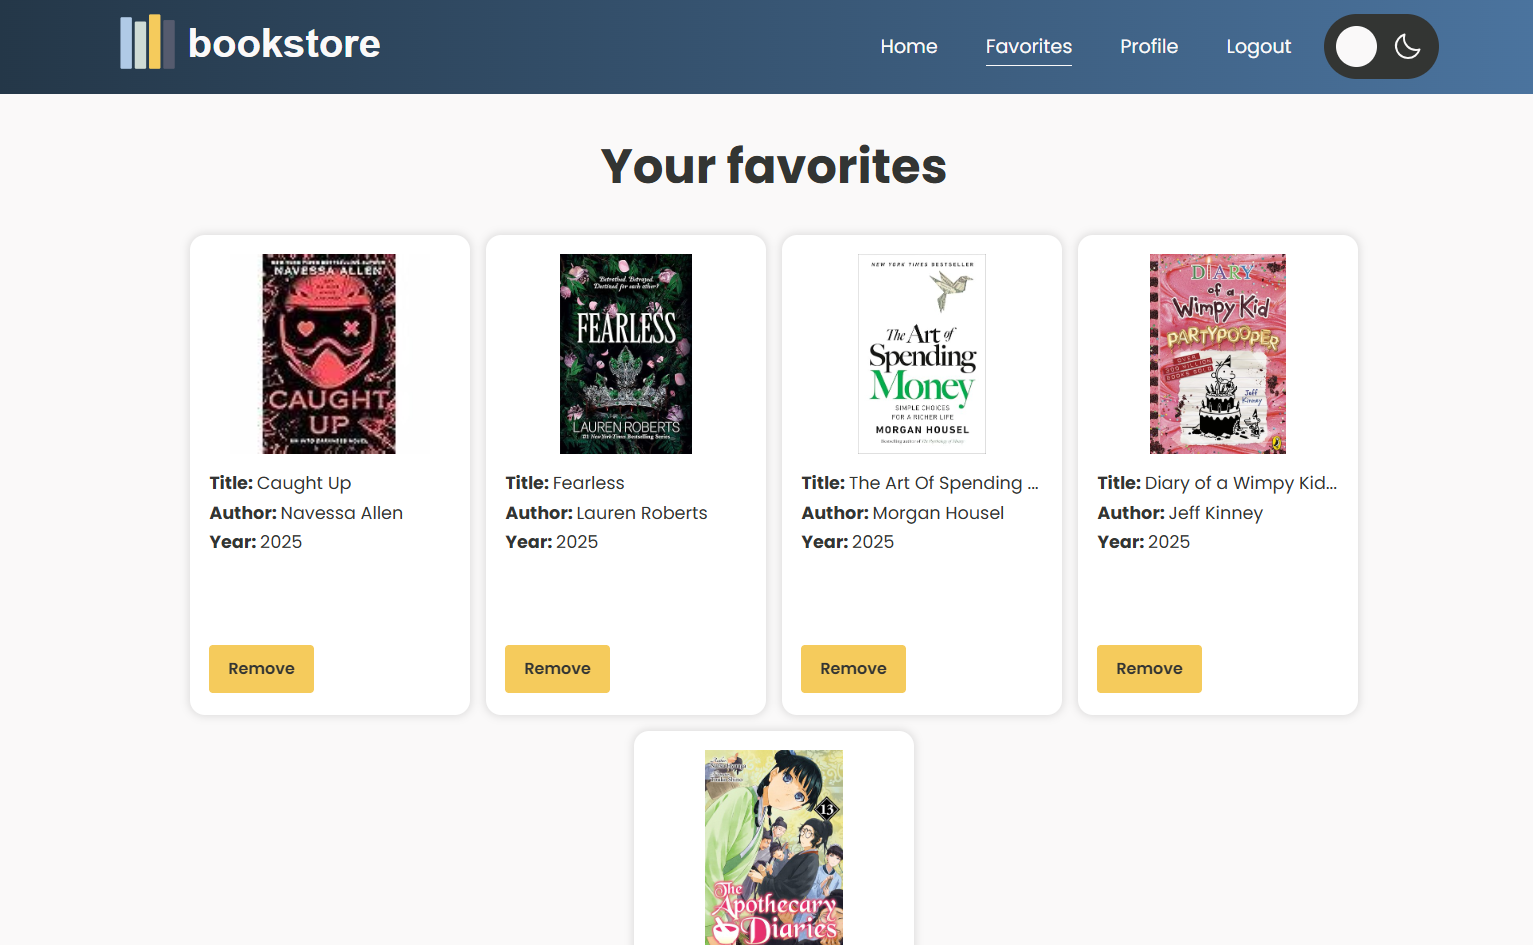
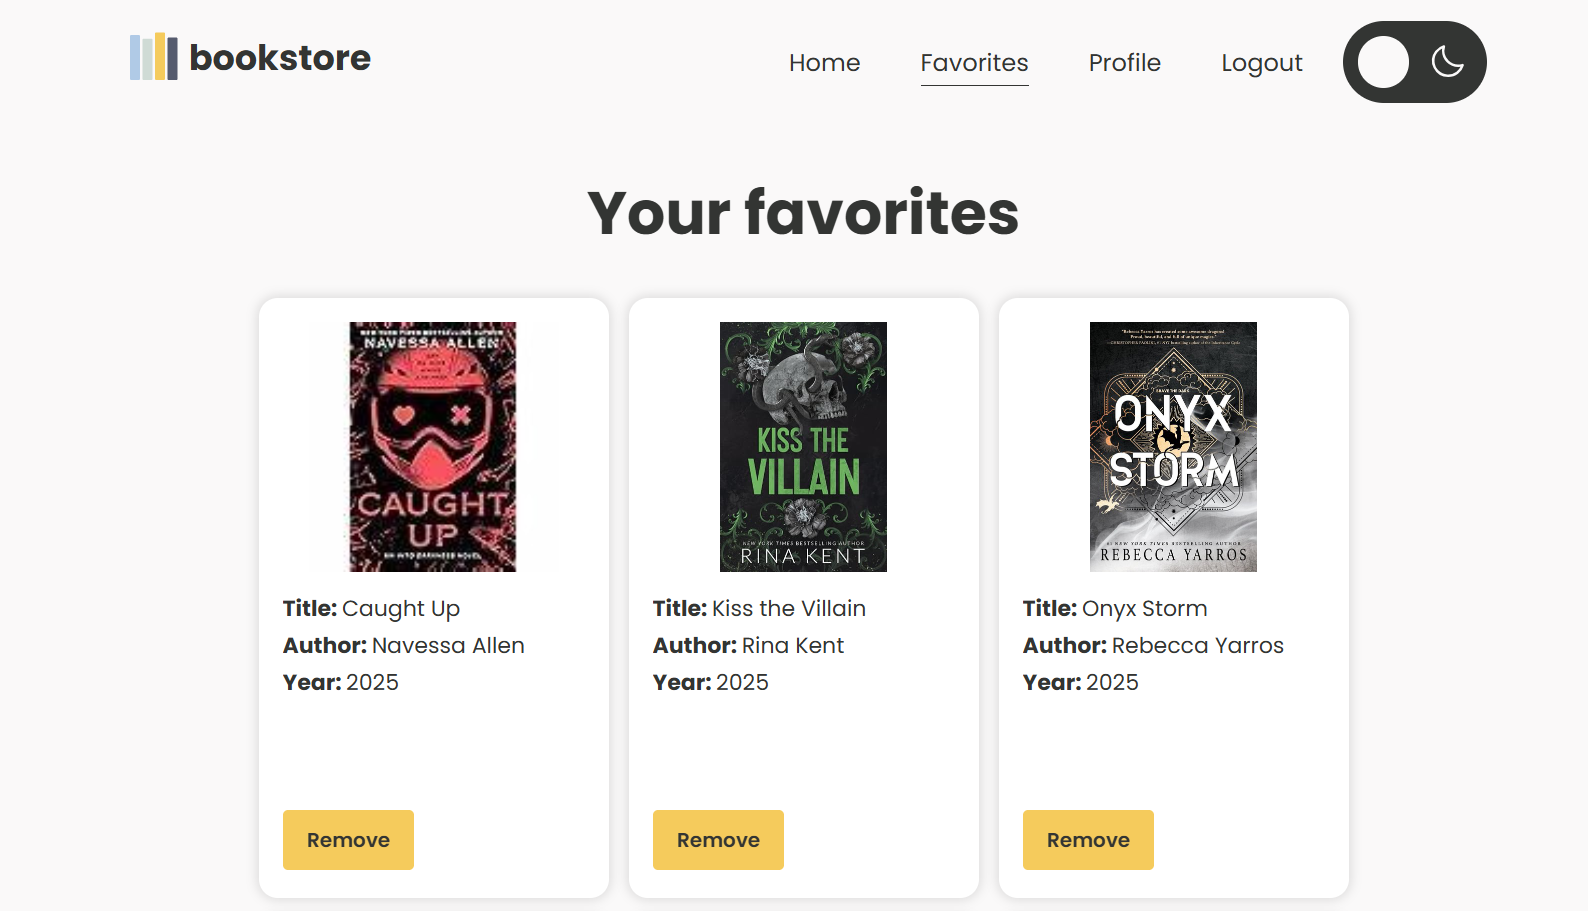
navigatie kleuren aangepast

diff --git a/src/components/navigation/Navigation.jsx b/src/components/navigation/Navigation.jsx
@@ -40,10 +40,23 @@ function Navigation() {
                             to="/"
                             onClick={() => setQuery("")}
                         >
-                            <img
-                                className="company-logo"
-                                src={logo}
-                                alt="Brand logo"/>
+                            <div className="company-logo">
+                                <svg width="280" height="60" viewBox="0 0 280 60">
+                                    <rect x="8" y="12" width="8" height="36" rx="1" fill="#b0cae6"/>
+                                    <rect x="18" y="15" width="8" height="33" rx="1" fill="#CFDBD5"/>
+                                    <rect x="28" y="10" width="8" height="38" rx="1" fill="#F5CB5C"/>
+                                    <rect x="38" y="14" width="8" height="34" rx="1" fill="#555B6E"/>
+                                    <text
+                                        x="55"
+                                        y="40"
+                                        fontSize="28"
+                                        fontWeight="bold"
+                                        fill="currentColor"
+                                    >
+                                        bookstore
+                                    </text>
+                                </svg>
+                            </div>
                         </NavLink>
                         <ul className="nav-links-desktop">
                             <div className="link-background">

diff --git a/src/components/navigation/Navigation.css b/src/components/navigation/Navigation.css
@@ -24,15 +24,18 @@
 /*    2.1 Navigation ──────────────────────────────────────────────── */
 
 .link-background:hover {
-    background-color: var(--black);
+    background-color: var(--link-hover);
+    color: var(--menu-bar);
     border-radius: 5px;
 }
 
 nav {
-    background: var(--nav-footer);
     width: 100%;
-    position: fixed;
-    z-index: 100;
+    padding-top: 1rem;
+}
+
+nav:before {
+    background: #faf5ea;
 }
 
 .nav-outercontainer {
@@ -69,15 +72,6 @@ nav {
     z-index: 50;
 }
 
-.nav-links a,
-.nav-links a:visited,
-.nav-links-desktop a,
-.nav-links-desktop a:visited,
-.nav-links-mobile a,
-.nav-links-mobile a:visited {
-    color: var(--nav-link);
-}
-
 .nav-links-desktop li, .nav-links-mobile li {
     padding: 0.5rem;
 }
@@ -95,12 +89,10 @@ nav {
     flex-direction: column;
     justify-content: center;
     gap: 1.5rem;
-    position: fixed;
-    top: 3.3rem;
     right: 0;
     background: var(--menu-bar);
     padding: 2rem;
-    width: 200px;
+    width: 100%;
     z-index: 50;
     align-items: center;
 }

diff --git a/src/index.css b/src/index.css
@@ -23,14 +23,15 @@
     --yellow: #F5CB5C;
     --background: var(--white);
     --foreground: var(--black);
-    --nav-link: var(--white);
+    --nav-link: var(--black);
     --transition: 0.3s ease;
-    --nav-footer: linear-gradient(90deg, #243748, #4B749F);
-    --menu-bar: #4B749F;
+    --menu-bar: var(--white);
     --card-bg: white;
     --icon-color: var(--black);
     --icon-footer: var(--black);
     --message: firebrick;
+    --menu-icon: var(--black);
+    --link-hover: var(--black)
 }
 #root {
     min-height: 100%;
@@ -55,11 +56,15 @@ body {
     --background: var(--black);
     --foreground: var(--white);
     --nav-link: var(--white);
-    --card-bg: #334e69;
+    --card-bg: var(--light-grey);
     --icon-color: var(--black);
     --icon-footer: var(--white);
     --message: var(--yellow);
     --transition: 0.3s ease;
+    --menu-icon: var(--white);
+    --menu-bar: var(--black);
+    --link-hover: var(--white);
+    --border: var(--white);
 }
 
 /* ── 2. Typography ────────────────────────────────────────────── */

diff --git a/src/components/menuBar/MenuBar.css b/src/components/menuBar/MenuBar.css
@@ -19,7 +19,7 @@
 }
 
 .menu-icon {
-    background-color: var(--white);
+    background-color: var(--menu-icon);
     position: relative;
     width: var(--menu-bar-width);
     height: var(--menu-bar-height);
@@ -27,7 +27,7 @@
 }
 
 .menu-icon::before, .menu-icon::after {
-    background-color: var(--white);
+    background-color: var(--menu-icon);
     content: "";
     width: var(--menu-bar-width);
     height: var(--menu-bar-height);
@@ -45,6 +45,7 @@
 
 .menu-bar.open .menu-icon {
     background-color: transparent;
+
 }
 
 .menu-bar.open .menu-icon::before {

diff --git a/src/components/footer/Footer.css b/src/components/footer/Footer.css
@@ -6,13 +6,13 @@
 
 /* ── 1. Footer ─────────────────────────────────────────── */
 footer {
-    background: var(--nav-footer);
-    color: var(--white);
+    color: var(--foreground);
     padding: 0.5rem;
     text-align: center;
     width: 100%;
     margin-top: auto;
     font-size: 1rem;
+    border-top: 1px solid var(--foreground);
 }
 
 .footer-icons {

diff --git a/src/App.css b/src/App.css
@@ -15,7 +15,7 @@ main {
     display: flex;
     flex-direction: column;
     margin: 0 auto;
-    padding: 6.2rem 0 4rem 0;
+    padding: 1.2rem 0 4rem 0;
     max-width: 80%;
 }
 

diff --git a/src/pages/signIn/SignIn.css b/src/pages/signIn/SignIn.css
@@ -96,7 +96,6 @@ input {
         display: flex;
         justify-content: space-evenly;
         width: 60vw;
-        margin: 10rem 0 0 auto;
     }
 
     .divider {

diff --git a/src/pages/profile/Profile.css b/src/pages/profile/Profile.css
@@ -25,6 +25,5 @@
         display: flex;
         flex-direction: column;
         justify-content: space-evenly;
-        margin: 10rem 0 0 auto;
     }
 }
